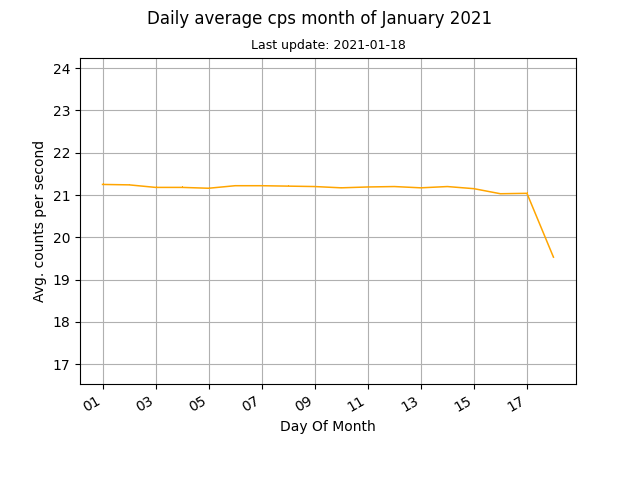
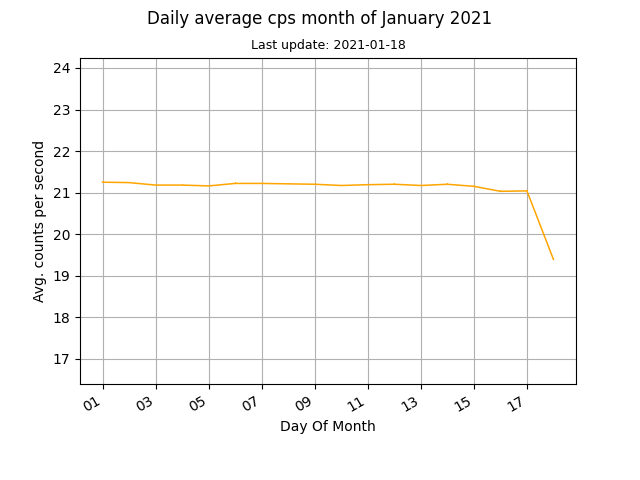
auto data update

diff --git a/docs/index.html b/docs/index.html
@@ -45,8 +45,8 @@
 	
 	<br>
 	
-	<p>Current counts per second (cps): 8.23</p>
-	<p>Last update: 2021-01-18, 21:37</p>
+	<p>Current counts per second (cps): 7.9</p>
+	<p>Last update: 2021-01-18, 21:52</p>
 
 	<p><a href="images/monthly.png"><img src="images/monthly.png" alt="Mothly avg cps data"></a><a href="images/daily.png"><img src="images/daily.png" alt="Daily avg cps data"></a></p>
 	
